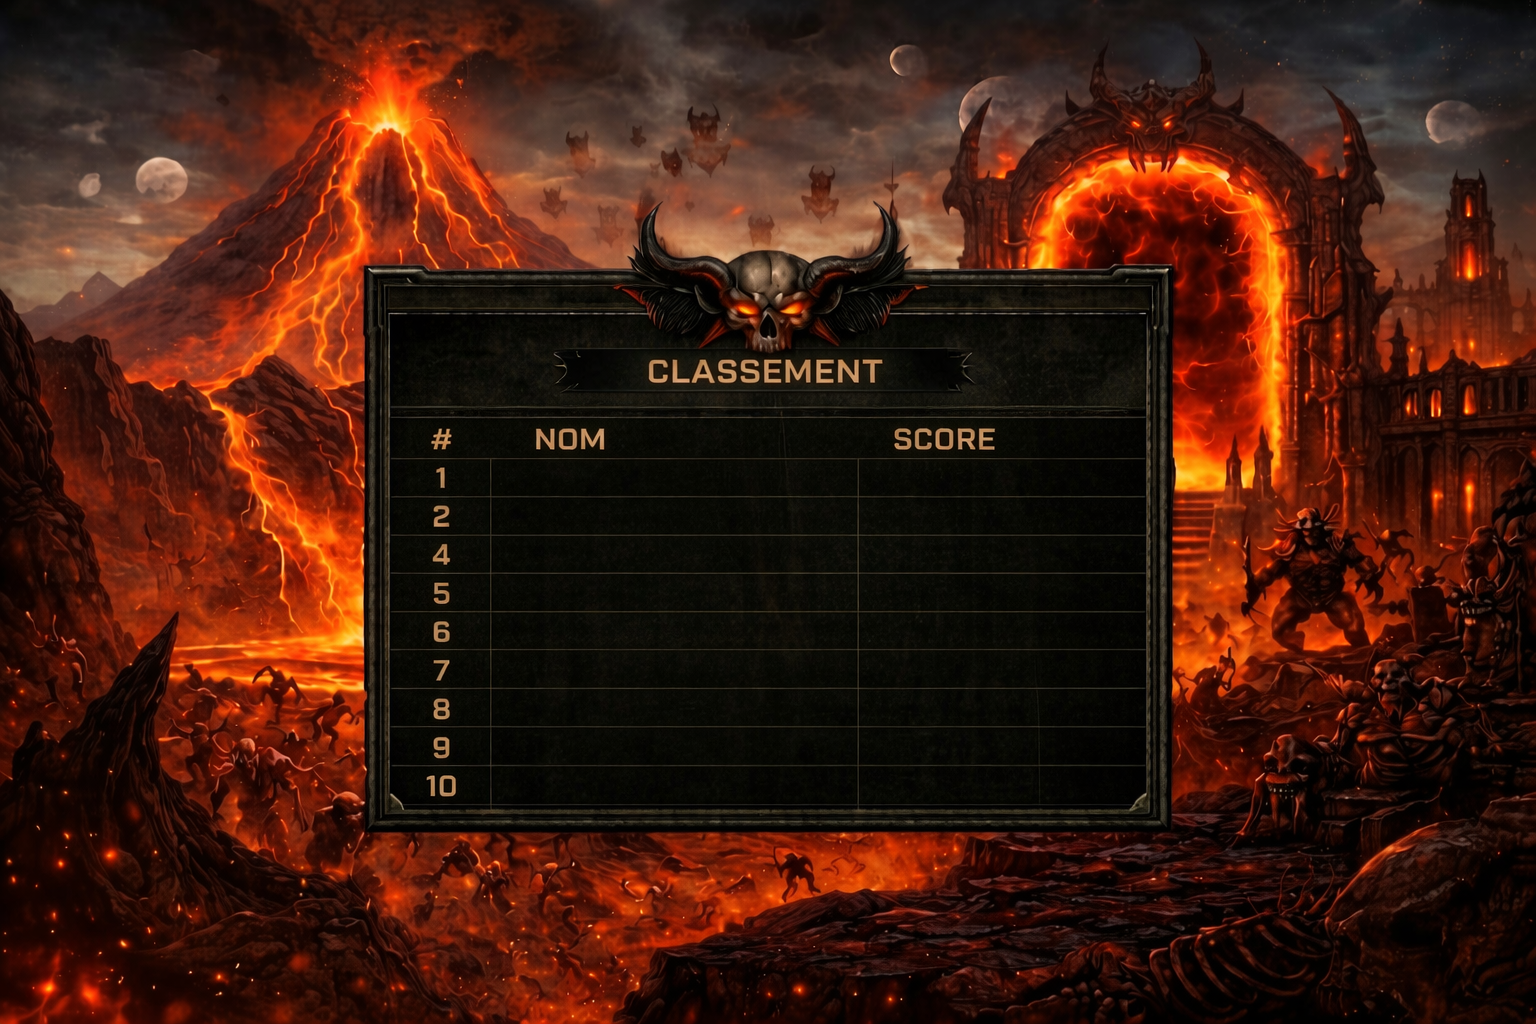
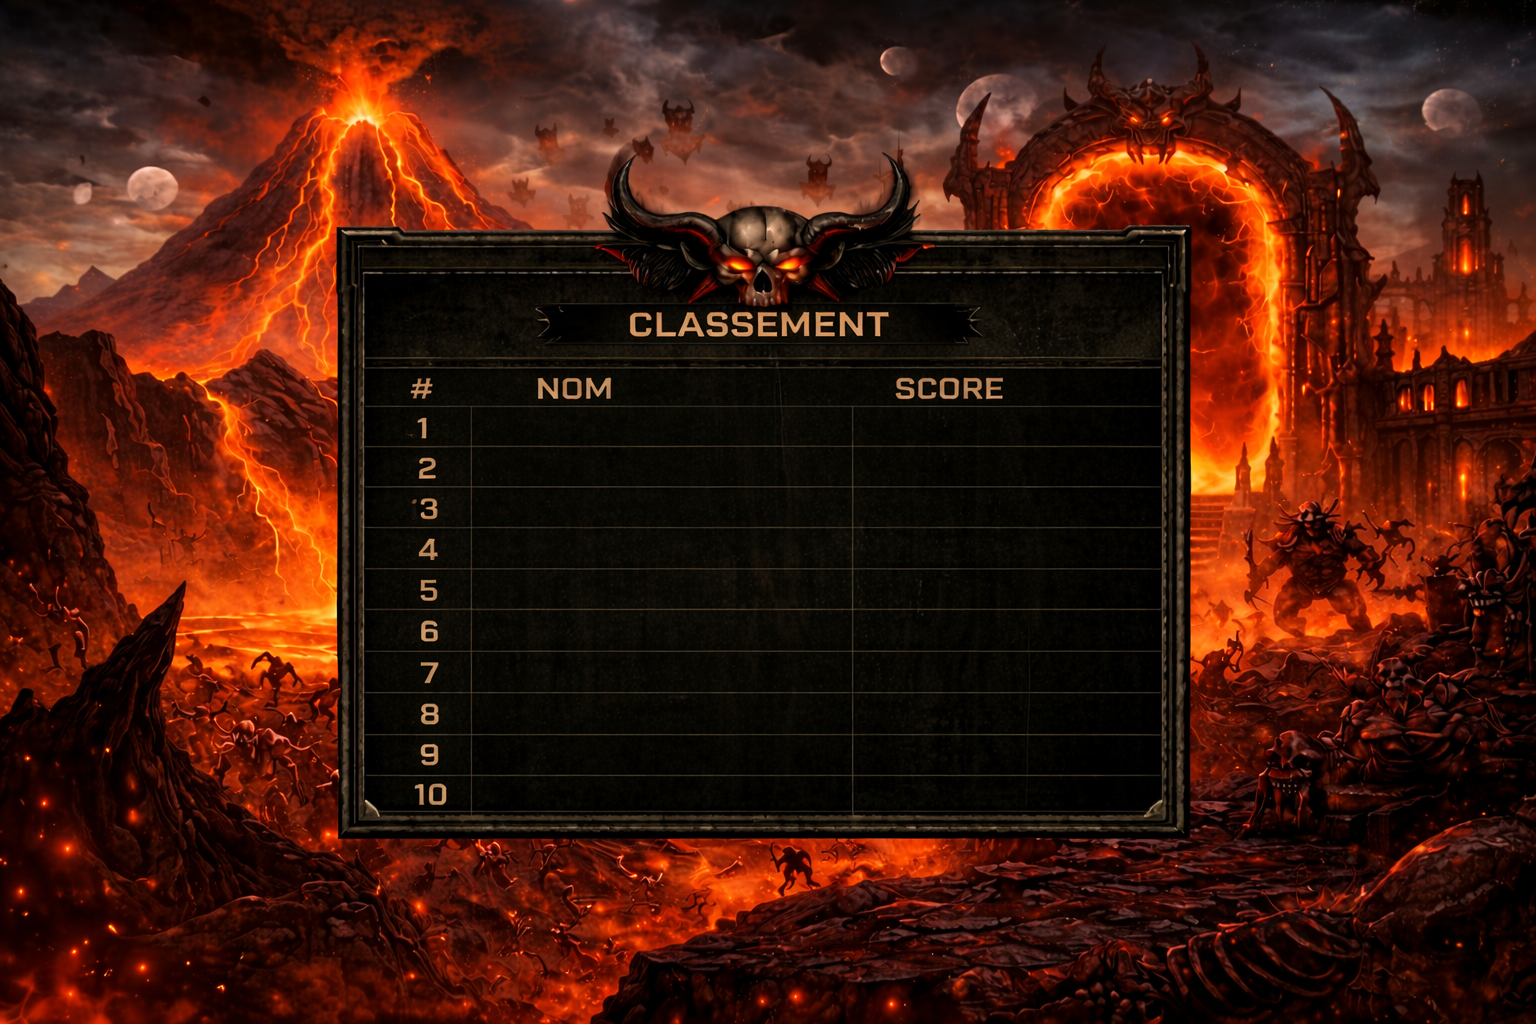
reglage de quelque bug
menu et bug fix

diff --git a/QtApplication/menupage.cpp b/QtApplication/menupage.cpp
@@ -20,8 +20,10 @@ MenuPage::MenuPage(QWidget *parent)
     addScoreButton();
     addPageLayout();
     //ajout a la liste
-    menuButtons.append(menu_playButton);   // index 0 → sélectionné par défaut
+    menuButtons.append(menu_playButton);
     menuButtons.append(menu_levelButton);
+    menuButtons.append(loginButton);
+    menuButtons.append(scoreButton);
     connectButtons();
     updateHighlight();
     m_background.load(":/ressources/background1.png");
@@ -125,44 +127,47 @@ void MenuPage::updateHighlight()
 {
     // Remet tous les boutons à leur état normal
     menu_playButton->setStyleSheet(
-        "QPushButton {"
-        "   border-image: url(:/ressources/bouton1.png) 0 0 0 0 stretch stretch;"
-        "}"
-        "QPushButton:hover {"
-        "   border-image: url(:/ressources/bouton2.png) 0 0 0 0 stretch stretch;"
-        "}"
+        "QPushButton { border-image: url(:/ressources/bouton1.png) 0 0 0 0 stretch stretch; }"
+        "QPushButton:hover { border-image: url(:/ressources/bouton2.png) 0 0 0 0 stretch stretch; }"
         );
     menu_levelButton->setStyleSheet(
-        "QPushButton {"
-        "   border-image: url(:/ressources/niveau1.png) 0 0 0 0 stretch stretch;"
-        "}"
-        "QPushButton:hover {"
-        "   border-image: url(:/ressources/niveau2.png) 0 0 0 0 stretch stretch;"
-        "}"
+        "QPushButton { border-image: url(:/ressources/niveau1.png) 0 0 0 0 stretch stretch; }"
+        "QPushButton:hover { border-image: url(:/ressources/niveau2.png) 0 0 0 0 stretch stretch; }"
+        );
+    loginButton->setStyleSheet(
+        "QPushButton { border-image: url(:/ressources/utilisateur1.png) 0 0 0 0 stretch stretch; }"
+        "QPushButton:hover { border-image: url(:/ressources/utilisateur2.png) 0 0 0 0 stretch stretch; }"
+        );
+    scoreButton->setStyleSheet(
+        "QPushButton { border-image: url(:/ressources/classement1.png) 0 0 0 0 stretch stretch; }"
+        "QPushButton:hover { border-image: url(:/ressources/classement2.png) 0 0 0 0 stretch stretch; }"
         );
 
-    if (currentIndex == 0) // menu_playButton est à l'index 0
-    {
+    // Applique le highlight sur le bouton sélectionné
+    if (currentIndex == 0)
         menu_playButton->setStyleSheet(
-            "QPushButton {"
-            "   border-image: url(:/ressources/bouton2.png) 0 0 0 0 stretch stretch;"
-            "}"
+            "QPushButton { border-image: url(:/ressources/bouton2.png) 0 0 0 0 stretch stretch; }"
             );
-    }
-    else if (currentIndex == 1) // menu_levelButton est à l'index 1
-    {
+    else if (currentIndex == 1)
         menu_levelButton->setStyleSheet(
-            "QPushButton {"
-            "   border-image: url(:/ressources/niveau2.png) 0 0 0 0 stretch stretch;"
-            "}"
+            "QPushButton { border-image: url(:/ressources/niveau2.png) 0 0 0 0 stretch stretch; }"
             );
-    }
+    else if (currentIndex == 2)
+        loginButton->setStyleSheet(
+            "QPushButton { border-image: url(:/ressources/utilisateur2.png) 0 0 0 0 stretch stretch; }"
+            );
+    else if (currentIndex == 3)
+        scoreButton->setStyleSheet(
+            "QPushButton { border-image: url(:/ressources/classement2.png) 0 0 0 0 stretch stretch; }"
+            );
 }
 
 void MenuPage::activateSelectedButton()
 {
-    if (currentIndex == 0) menu_playClicked();
+    if (currentIndex == 0)      menu_playClicked();
     else if (currentIndex == 1) menu_levelClicked();
+    else if (currentIndex == 2) loginClicked();
+    else if (currentIndex == 3) scoreClicked();
 }
 
 void MenuPage::loginClicked()
@@ -189,15 +194,10 @@ void MenuPage::menu_playClicked()
 
 void MenuPage::changeButtons()
 {
-    //qDebug() << "changeButtons";
     currentIndex++;
-    if (currentIndex > 1)
-    {
+    if (currentIndex > 3)
         currentIndex = 0;
-    }
-    //qDebug() << "current index:" << currentIndex;
 }
-
 void MenuPage::setupNextSelect()
 {
     //qDebug() << "setup Next";

diff --git a/QtApplication/leaderboard.cpp b/QtApplication/leaderboard.cpp
@@ -50,7 +50,7 @@ leaderBoard::leaderBoard(QString filename, QWidget *parent)
 
     // Hauteur des rangées
     for (int i = 0; i < 10; i++)
-        m_table->setRowHeight(i, 36);
+        m_table->setRowHeight(i, 38);
 
     m_menuButton = new QPushButton(this); // ← ajoute 'this' et garde la référence
     m_menuButton->setMinimumSize(450, 120);
@@ -100,7 +100,7 @@ int leaderBoard::loadScore(QString username)
 
 void leaderBoard::load10BestPlayers()
 {
-    for (int i = 0; i < 9; i++)
+    for (int i = 0; i < 10; i++)
     {
         QString nom   = i < m_users.size() ? m_users[i].first  : "-";
         QString score = i < m_users.size() ? QString::number(m_users[i].second) : "-";
@@ -163,7 +163,7 @@ void leaderBoard::resizeEvent(QResizeEvent* event)
 
     // Ces 4 valeurs définissent le rectangle du tableau dans l'image
     int tableX = (int)(430 * scaleX);
-    int tableY = (int)(385 * scaleY);
+    int tableY = (int)(345 * scaleY);
     int tableW = (int)(480 * scaleX);
     int tableH = (int)(500 * scaleY);
 

diff --git a/QtApplication/gamemanager.cpp b/QtApplication/gamemanager.cpp
@@ -28,15 +28,11 @@ void GameManager::restartGame()
     m_lastHealScore = 0;
     m_currentWave = 0;
     m_waveActive = false;
-
     for (Actor* a : m_rangedEnemies) delete a;
     m_rangedEnemies.clear();
     m_projectiles.clear();
-
-
     for (Actor* a : creatures) delete a;
     creatures.clear();
-
     if (m_boss)
     {
         delete m_boss;
@@ -47,6 +43,11 @@ void GameManager::restartGame()
     m_weaponPickups.clear();
     m_playerHasShotgun = false;
     m_shotgunWave = -1;
+
+    delete m_playerWeapon;
+    m_playerWeapon = new Weapon(1, 1000.0f, 10.0f, 10, 2.0f);
+    p->setWeapon(m_playerWeapon);
+    emit sigWeaponChanged();
 }
 
 Actor* GameManager::getPlayer()
